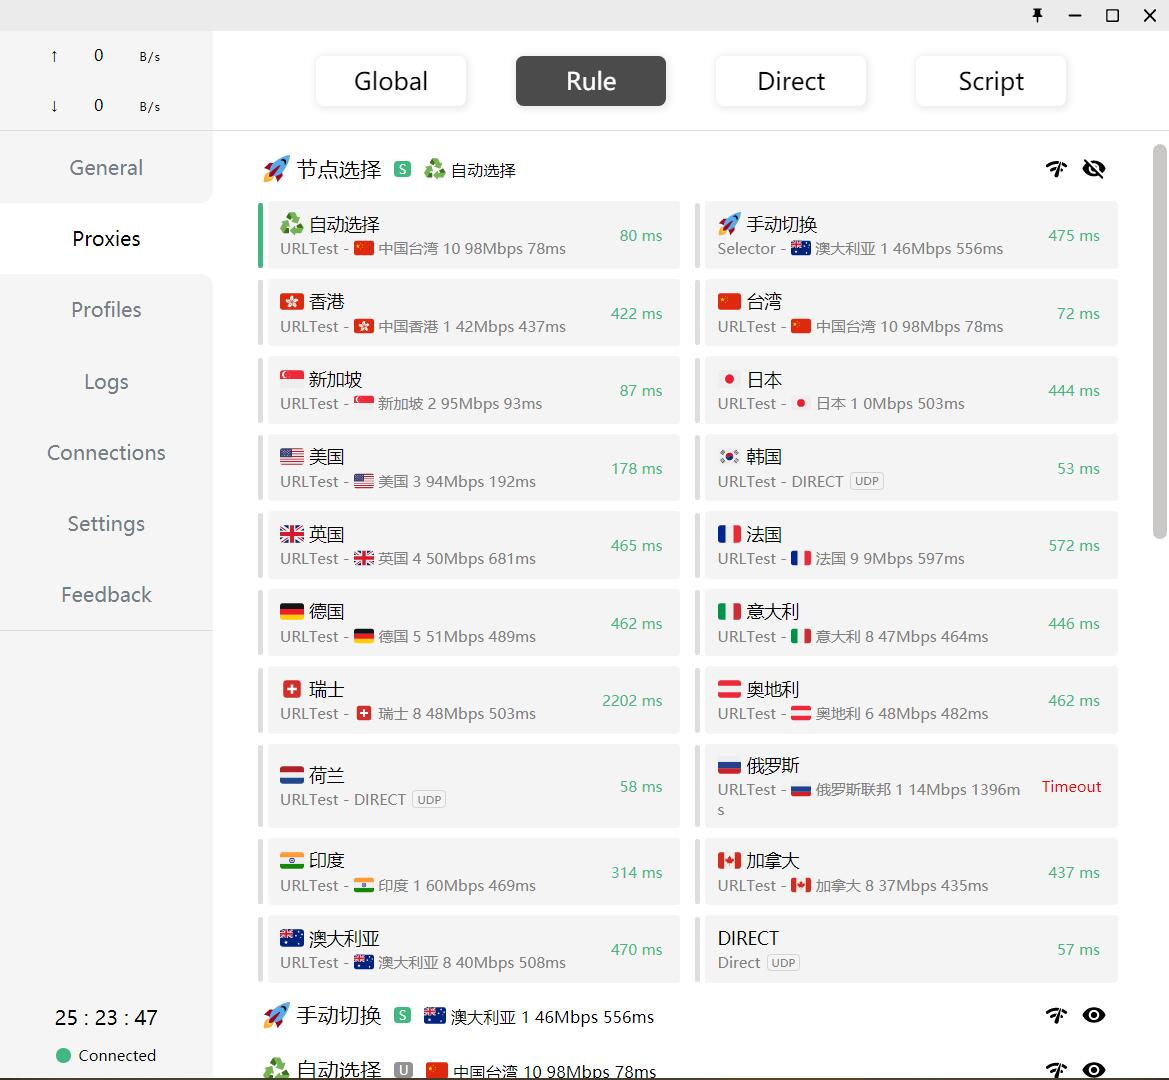
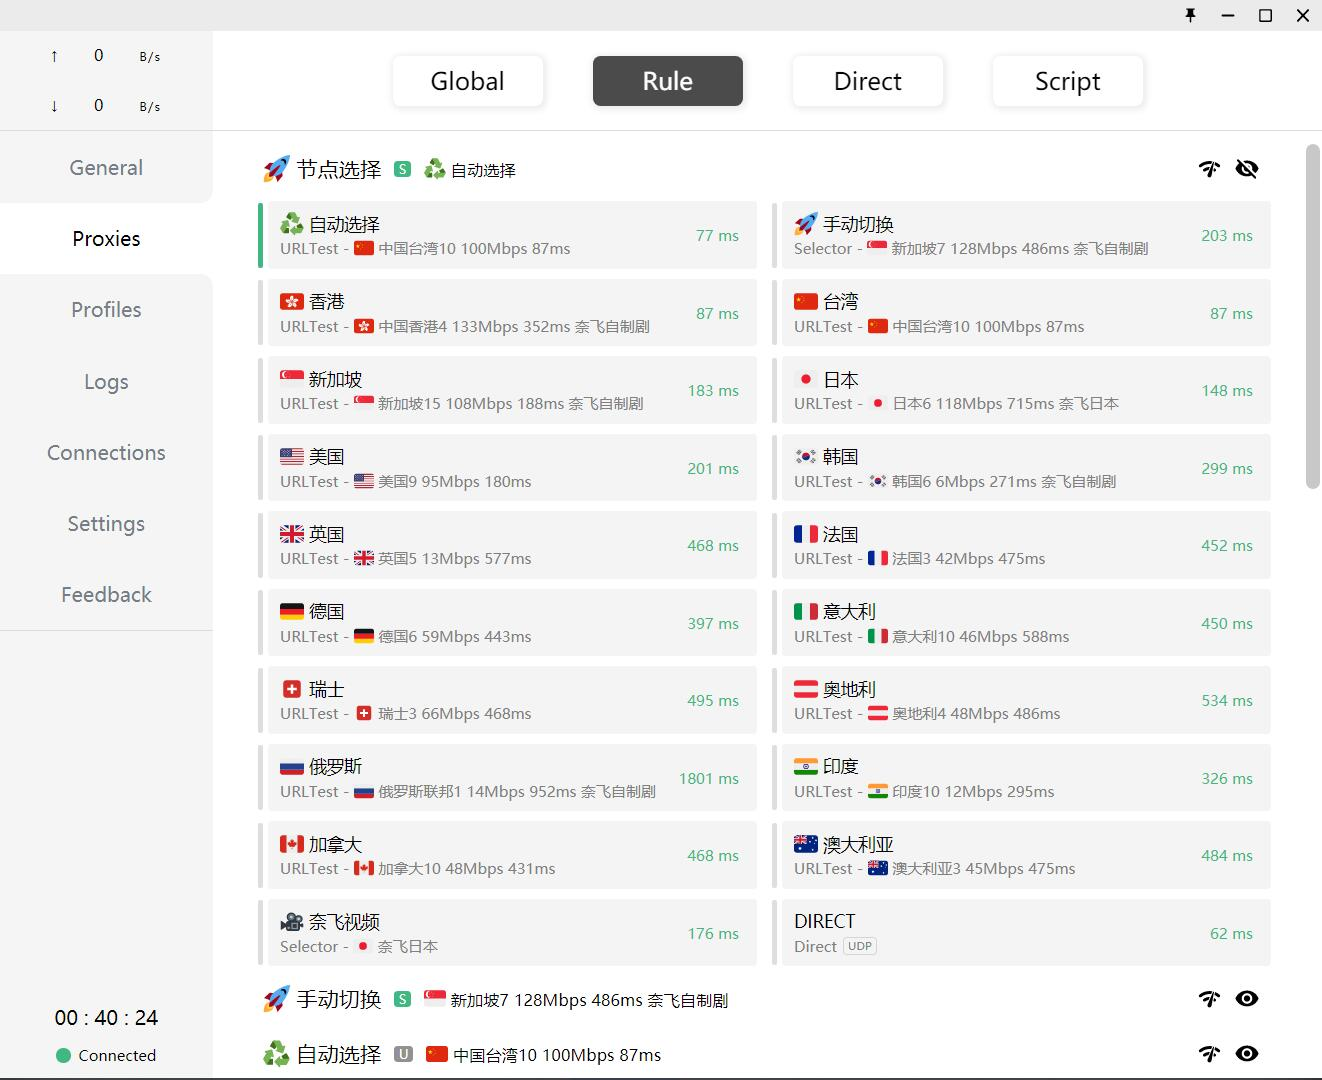
更新说明

diff --git a/README.md b/README.md
@@ -12,8 +12,10 @@
 
 推荐使用 `Clash`，下面的 `Clash` 订阅已按国家设好分组，分组内自动选择可用的最快节点，免受节点失效烦恼。
 
-Clash 订阅链接（推荐） https://subcon.dlj.tf/sub?target=clash&new_name=true&url=https%3A%2F%2Fraw.githubusercontent.com%2Fzjsxply%2FTestNodes%2Fmain%2FClashConfigRaw.yml&insert=false&config=https%3A%2F%2Fraw.githubusercontent.com%2Fzjsxply%2FTestNodes%2Fmain%2Fclash-sub-convertor-config.ini
+**Clash 订阅链接（推荐）** https://subcon.dlj.tf/sub?target=clash&new_name=true&url=https%3A%2F%2Fraw.githubusercontent.com%2Fzjsxply%2FTestNodes%2Fmain%2FClashConfigRaw.yml&insert=false&config=https%3A%2F%2Fraw.githubusercontent.com%2Fzjsxply%2FTestNodes%2Fmain%2Fclash-sub-convertor-config.ini
 
-V2rayN 订阅链接 https://raw.githubusercontent.com/zjsxply/TestNodes/main/v2ray.txt
+**V2rayN 订阅链接** https://raw.githubusercontent.com/zjsxply/TestNodes/main/v2ray.txt
 
 ![](https://github.com/zjsxply/TestNodes/blob/main/screenshot.jpg?raw=true)
+
+![](https://github.com/zjsxply/TestNodes/blob/main/screenshot2.jpg?raw=true)
